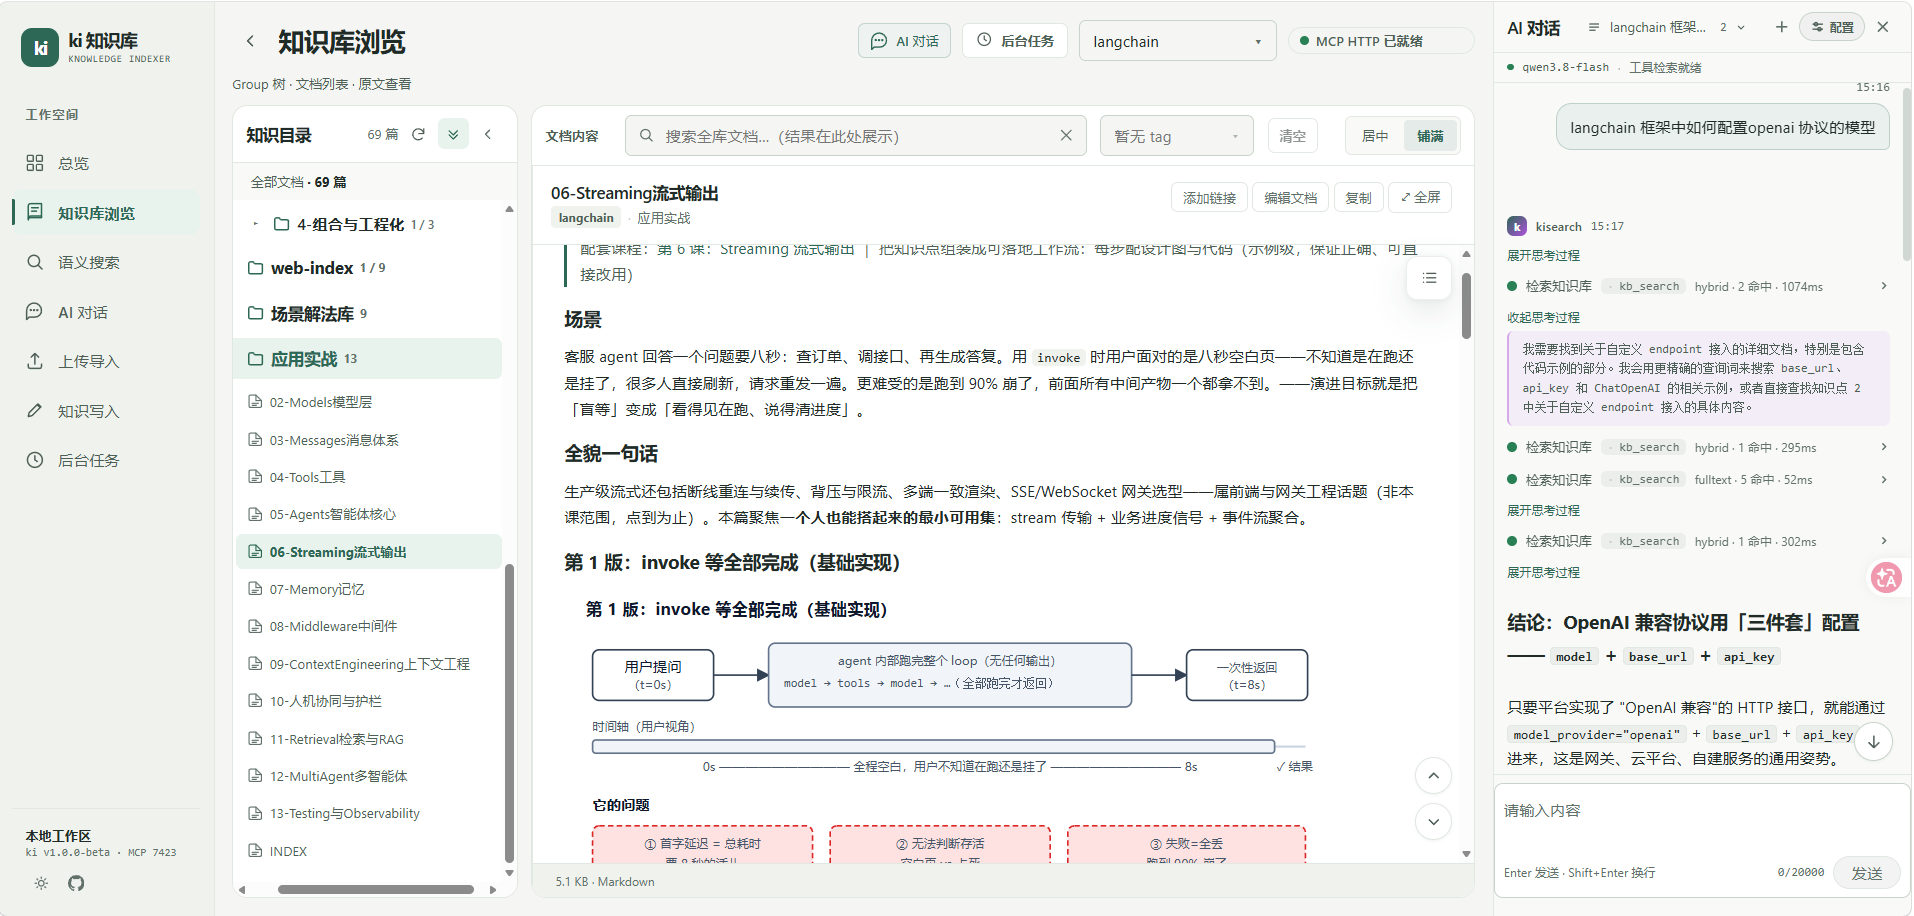
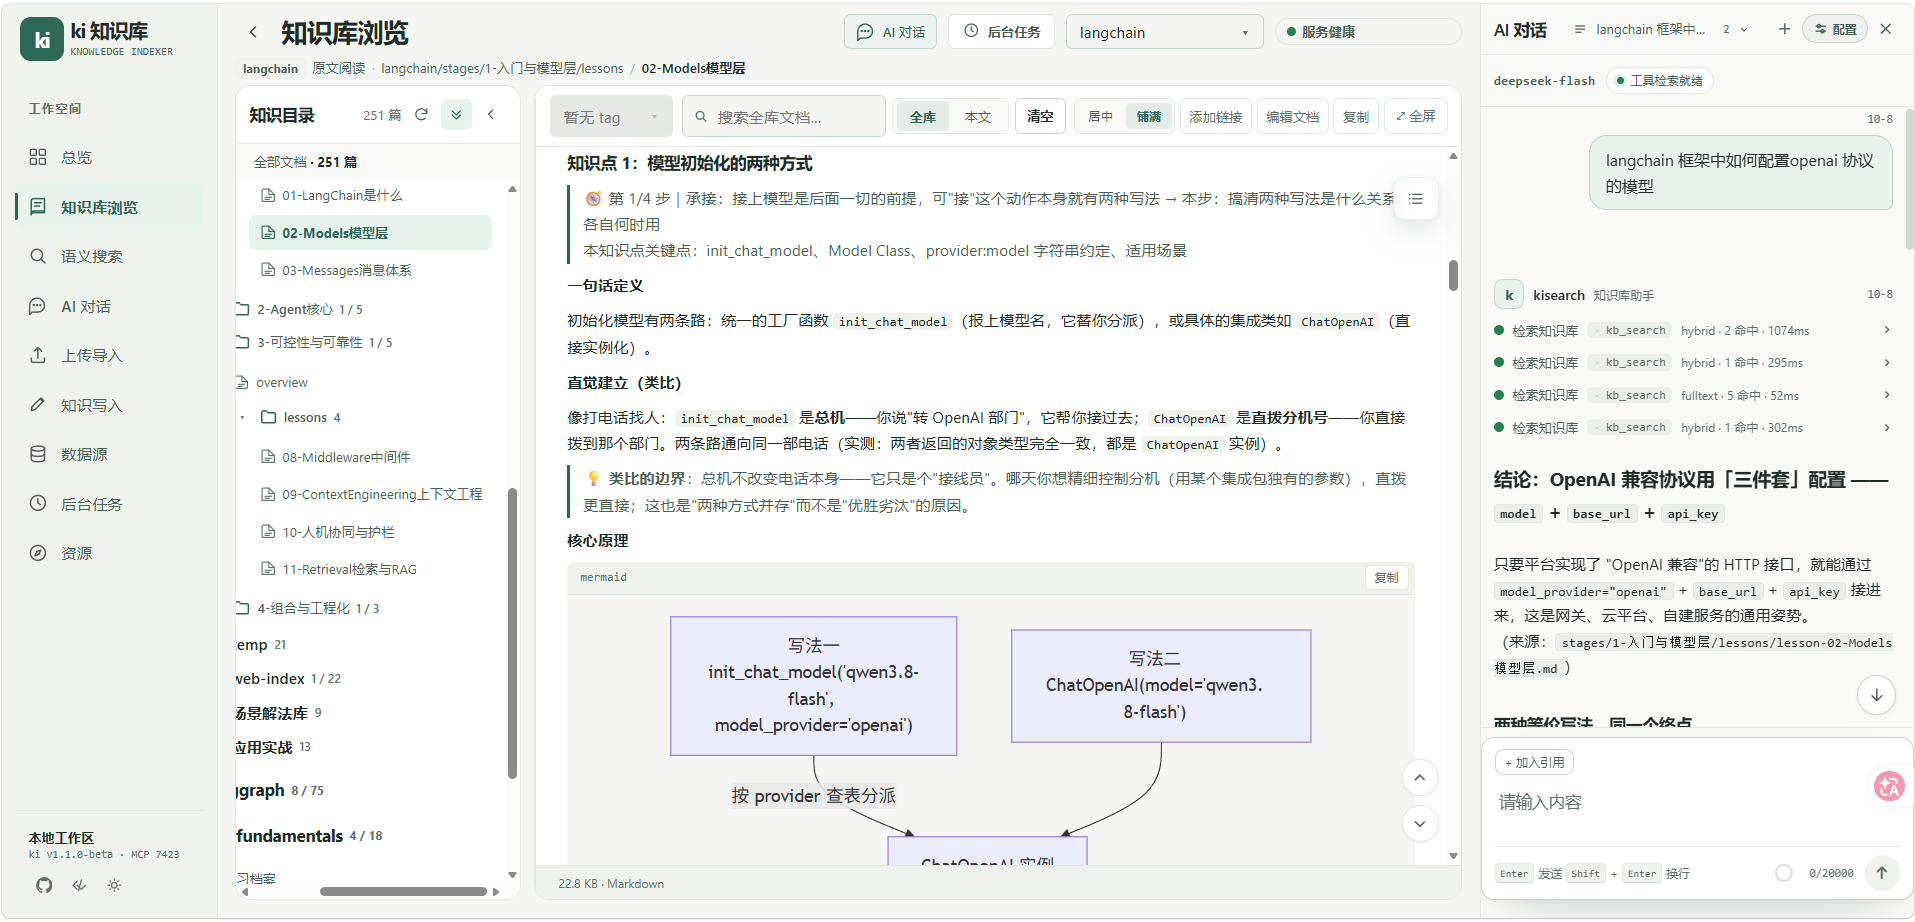
chore: 更新展示图片

diff --git a/README.md b/README.md
@@ -44,9 +44,9 @@
 
 ![kisearch 架构](./assets/architecture.svg)
 
-**Web 前端 · 总览页**
+**Web 前端 · 知识库浏览**
 
-![kisearch Web 前端 · 总览](assets/overview.png)
+![kisearch Web 前端 · 知识库浏览](assets/overview.png)
 
 ## <a id="agent-memory"></a>🧠 作为 AI Agent 的长期记忆系统
 
